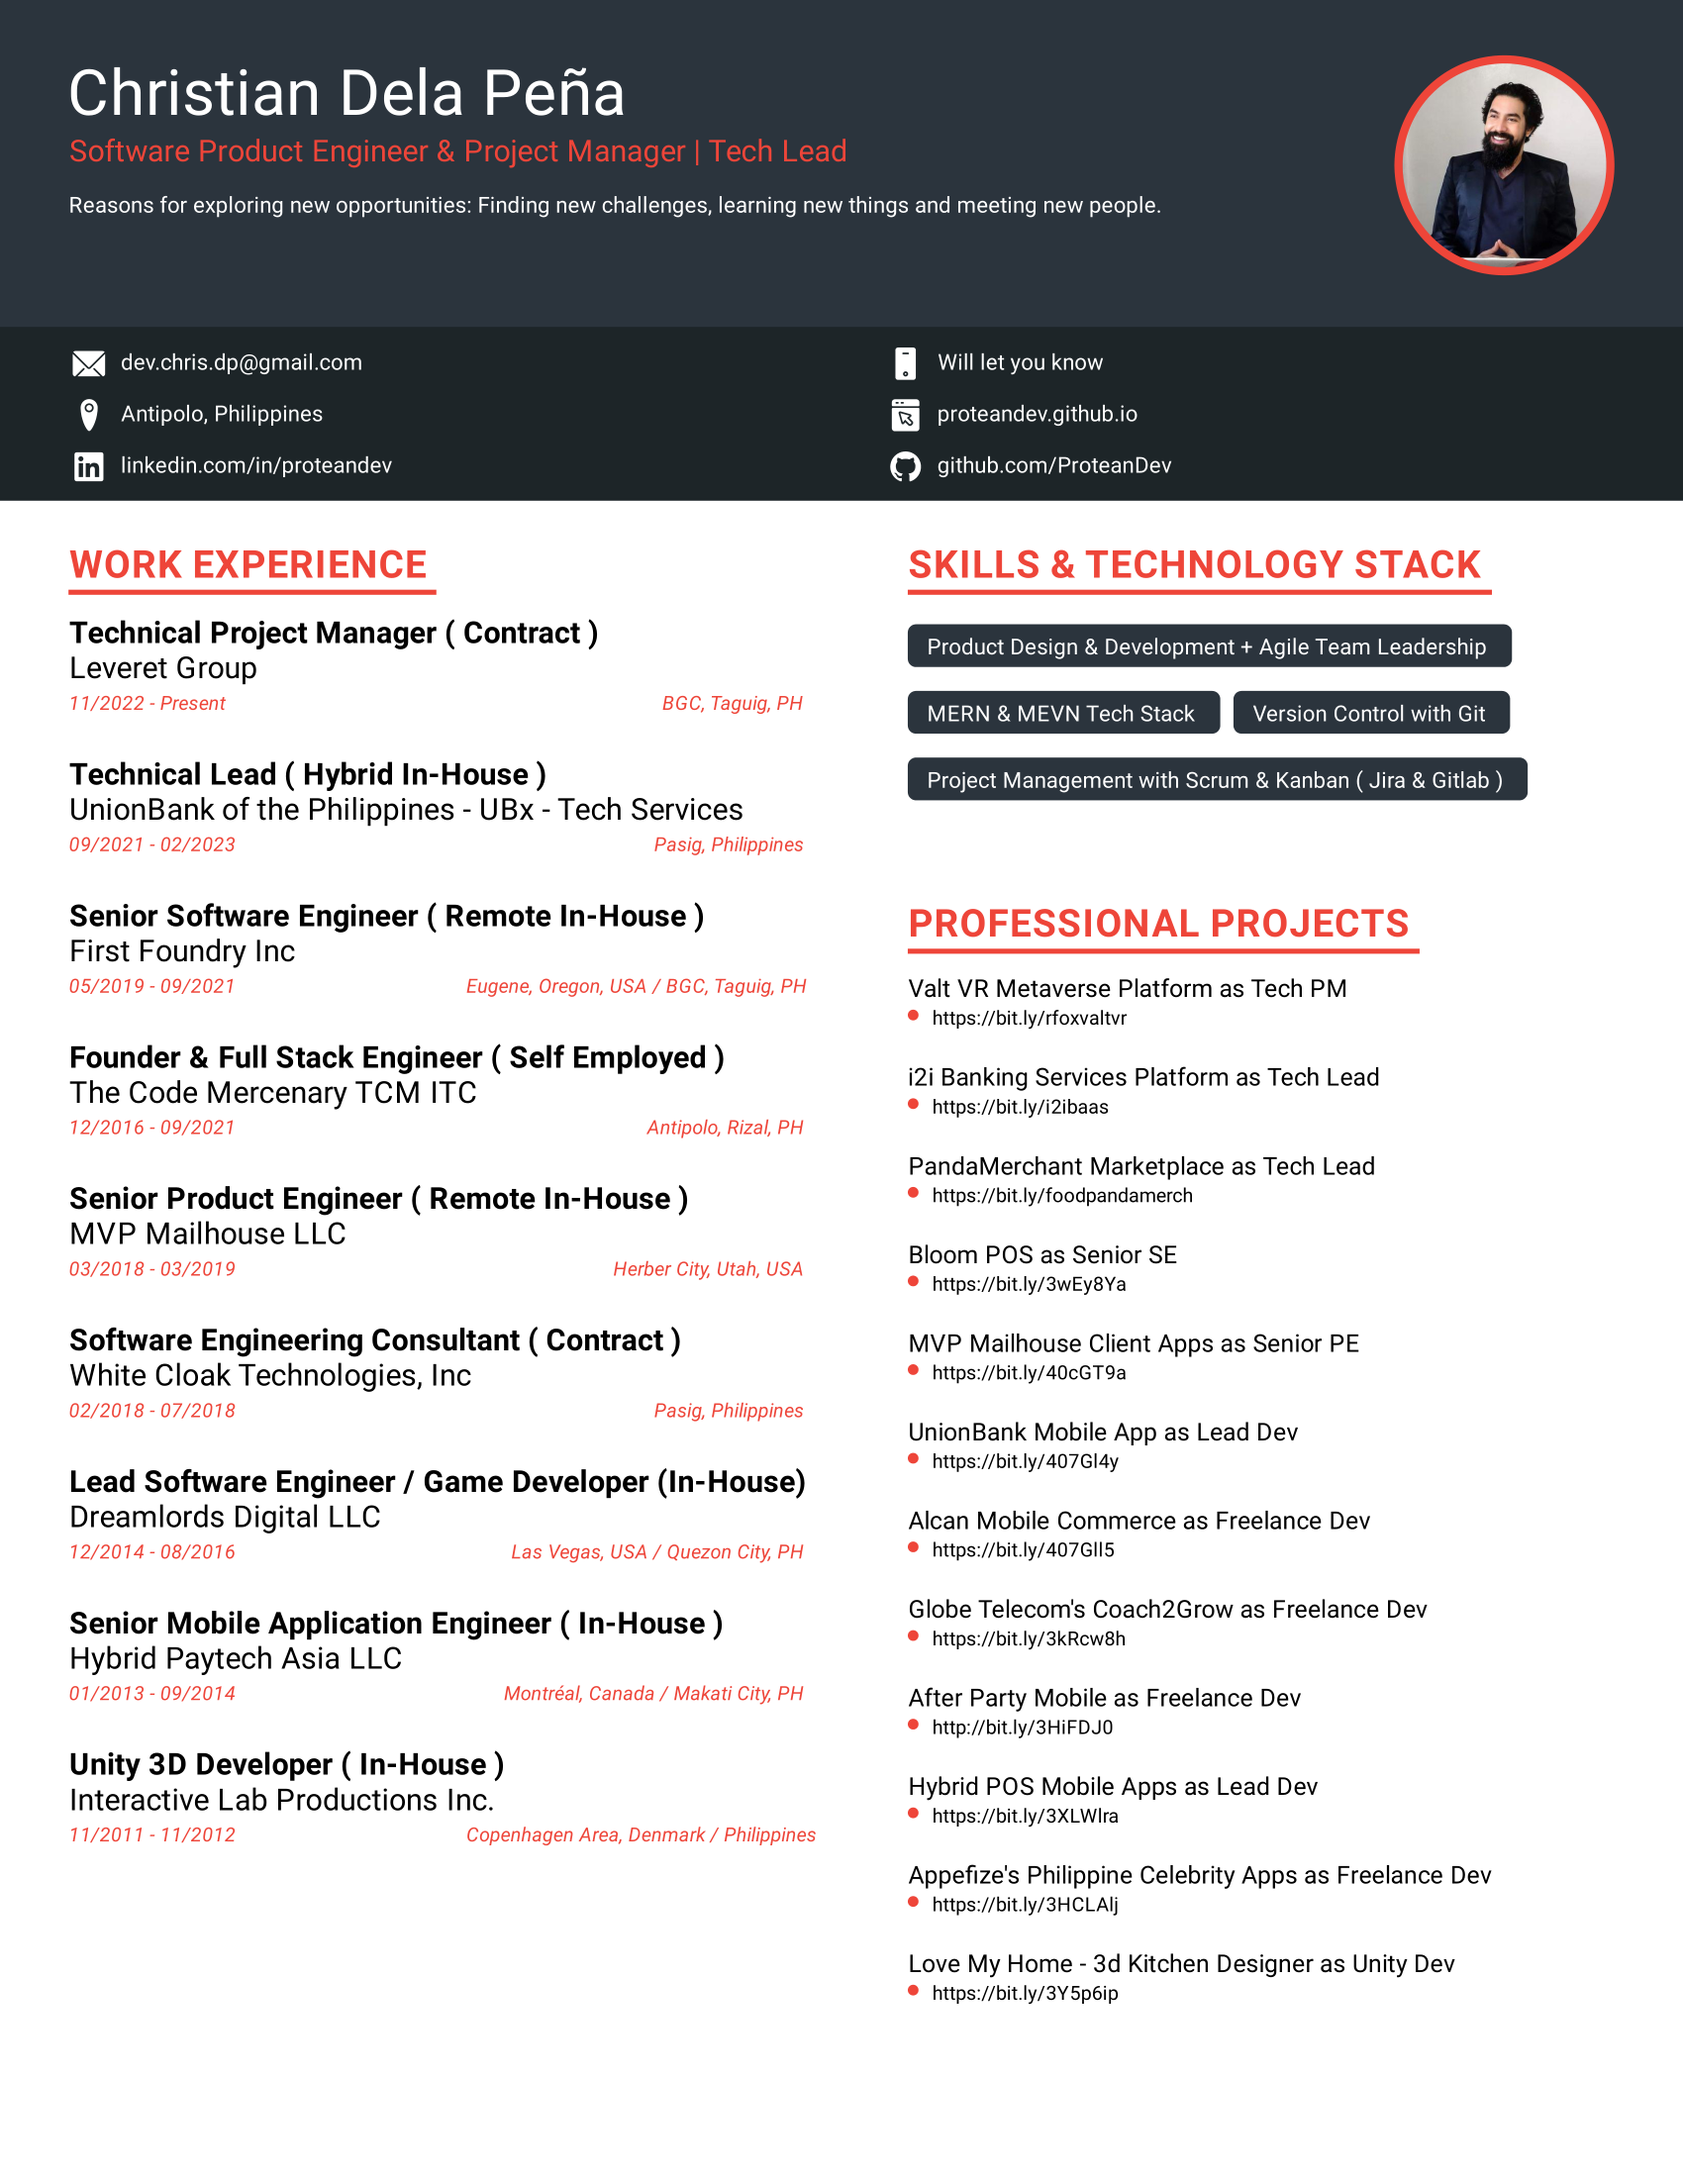
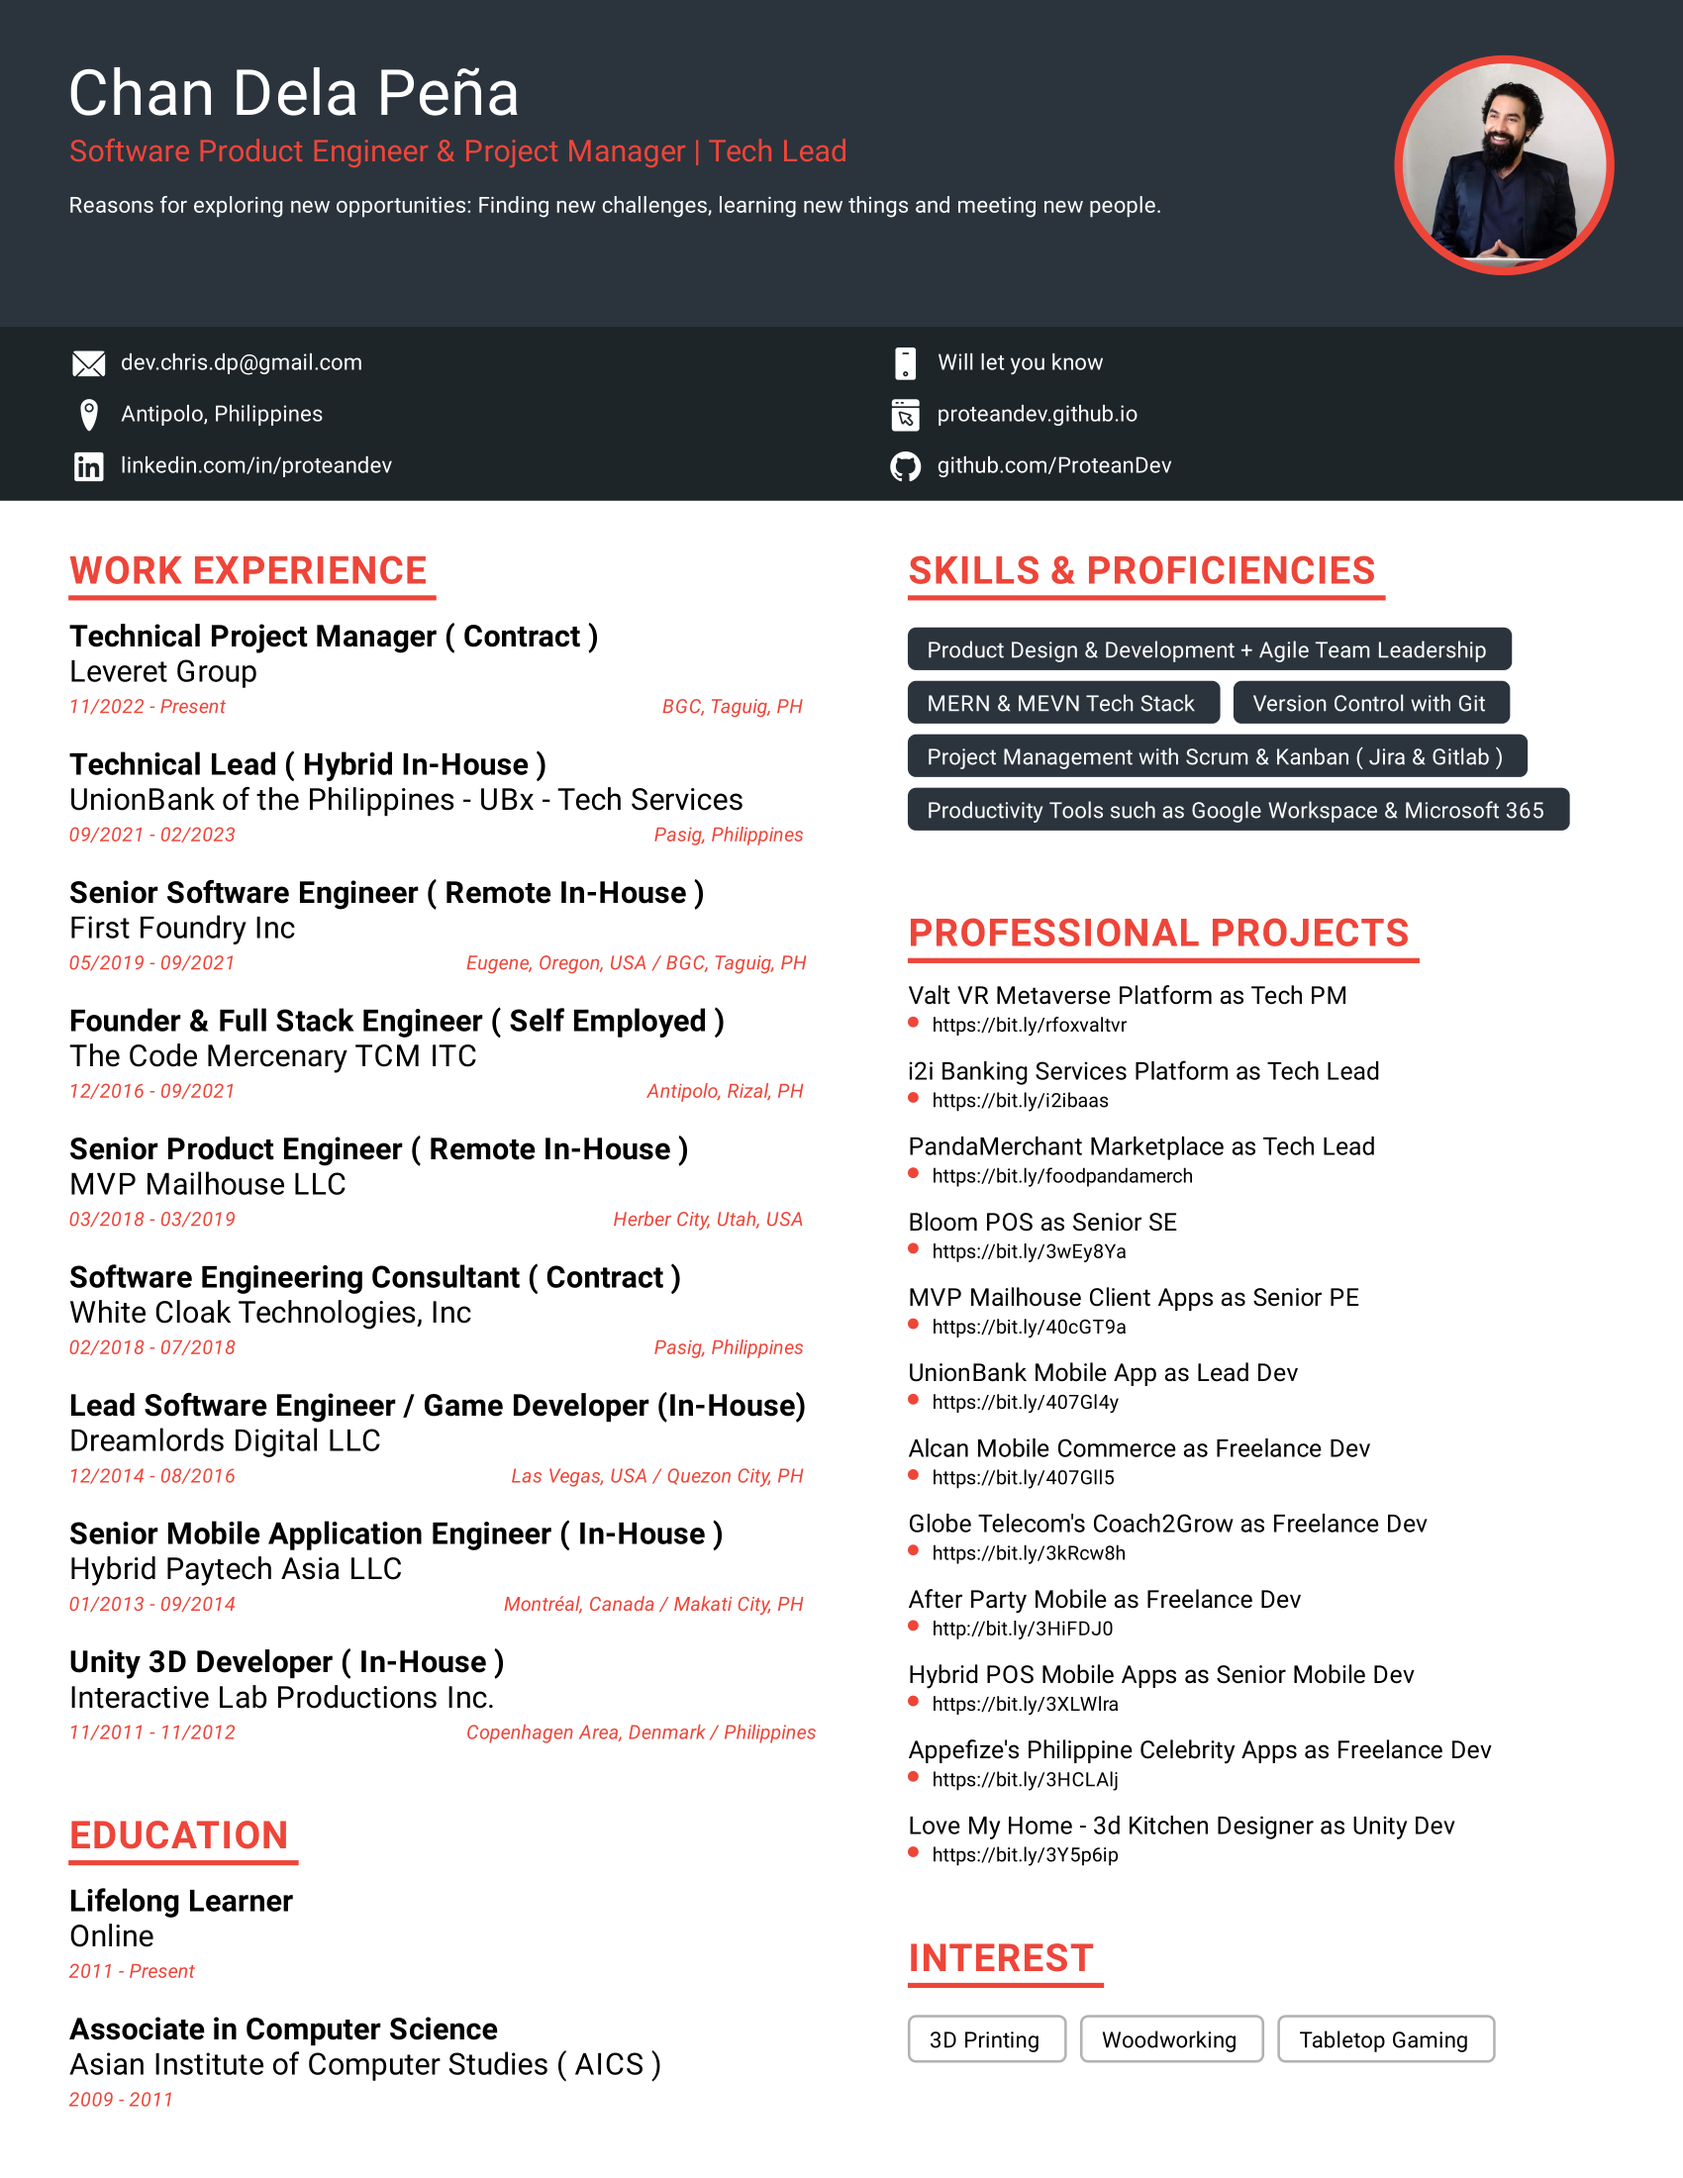
CV Update

diff --git a/index.html b/index.html
@@ -3,7 +3,7 @@
   <head>
     <meta charset="utf-8" />
     <meta name="viewport" content="width=device-width" />
-    <title>Christian Dela Peña</title>
+    <title>Chan D</title>
     <link rel="icon" href="/favicon.ico" />
     <meta name="next-head-count" content="4" />
     <link rel="preload" href="./main.css" as="style" />
